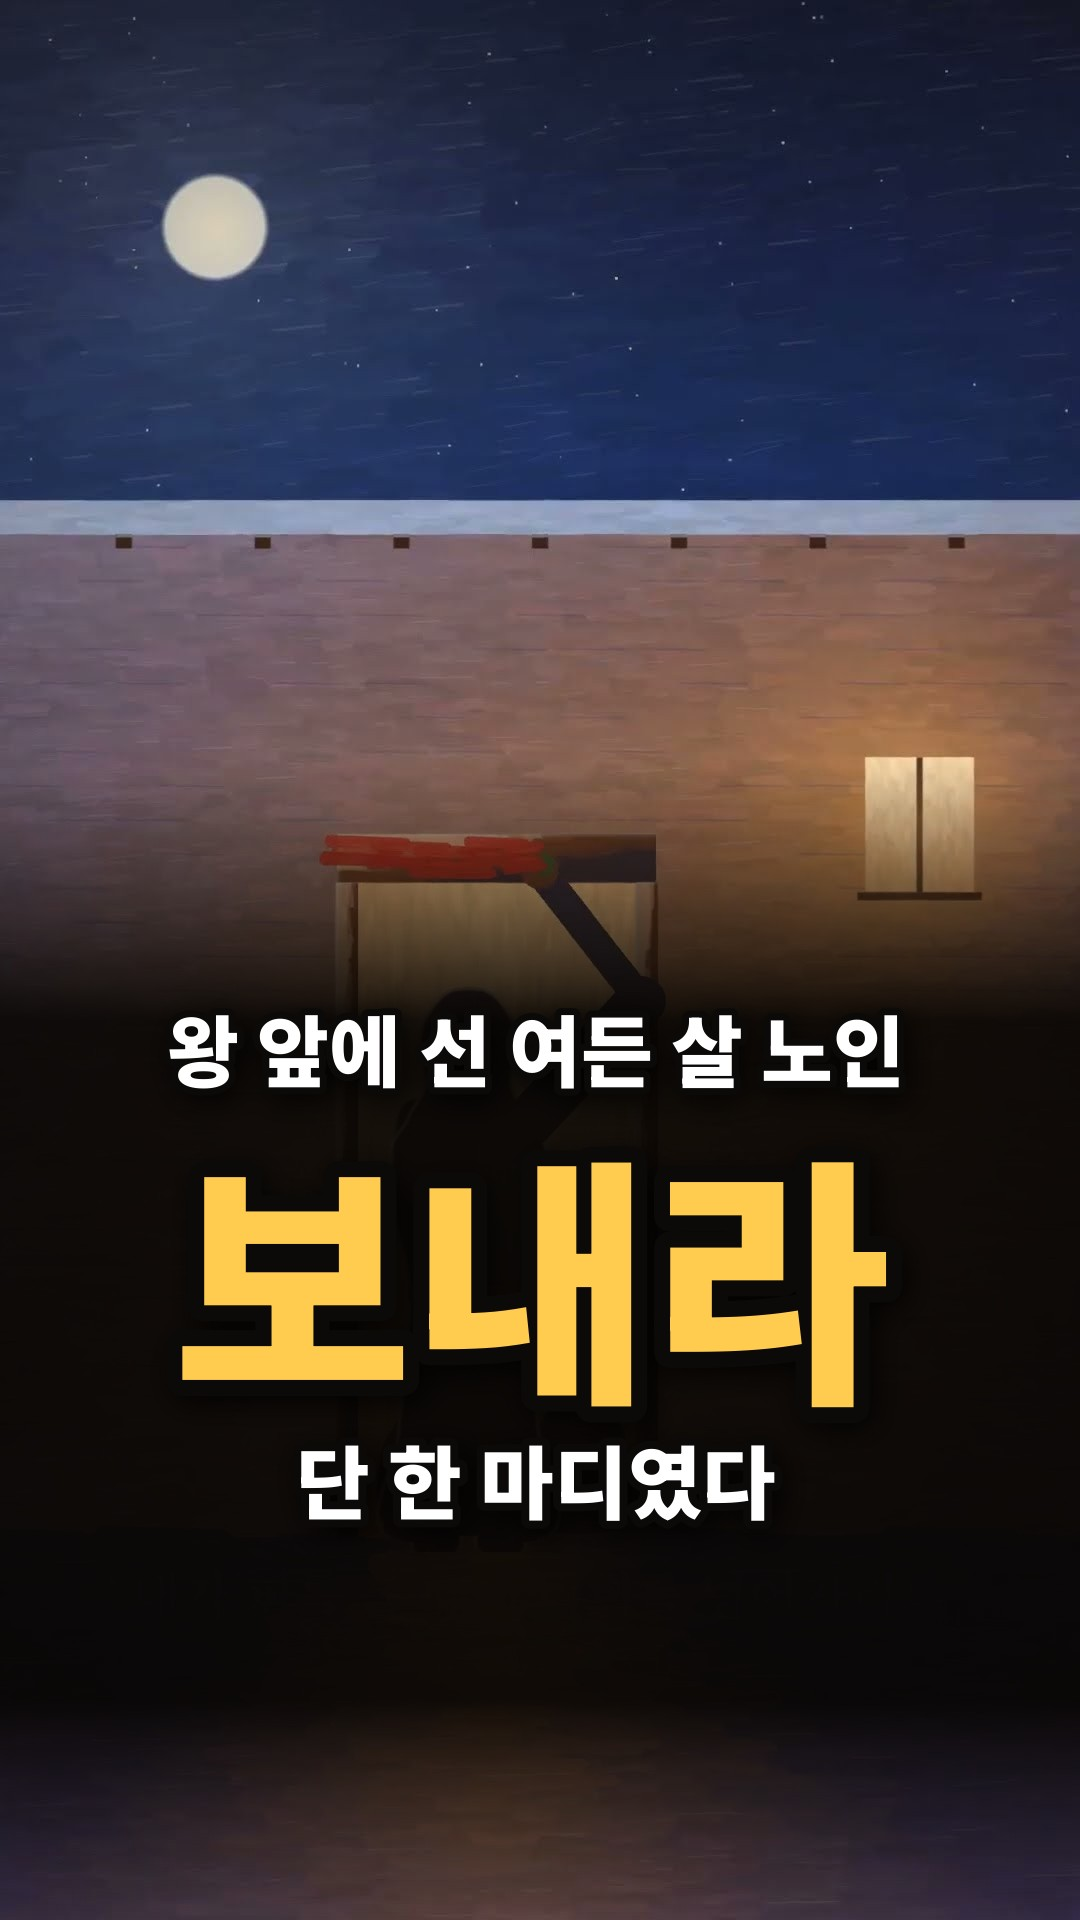
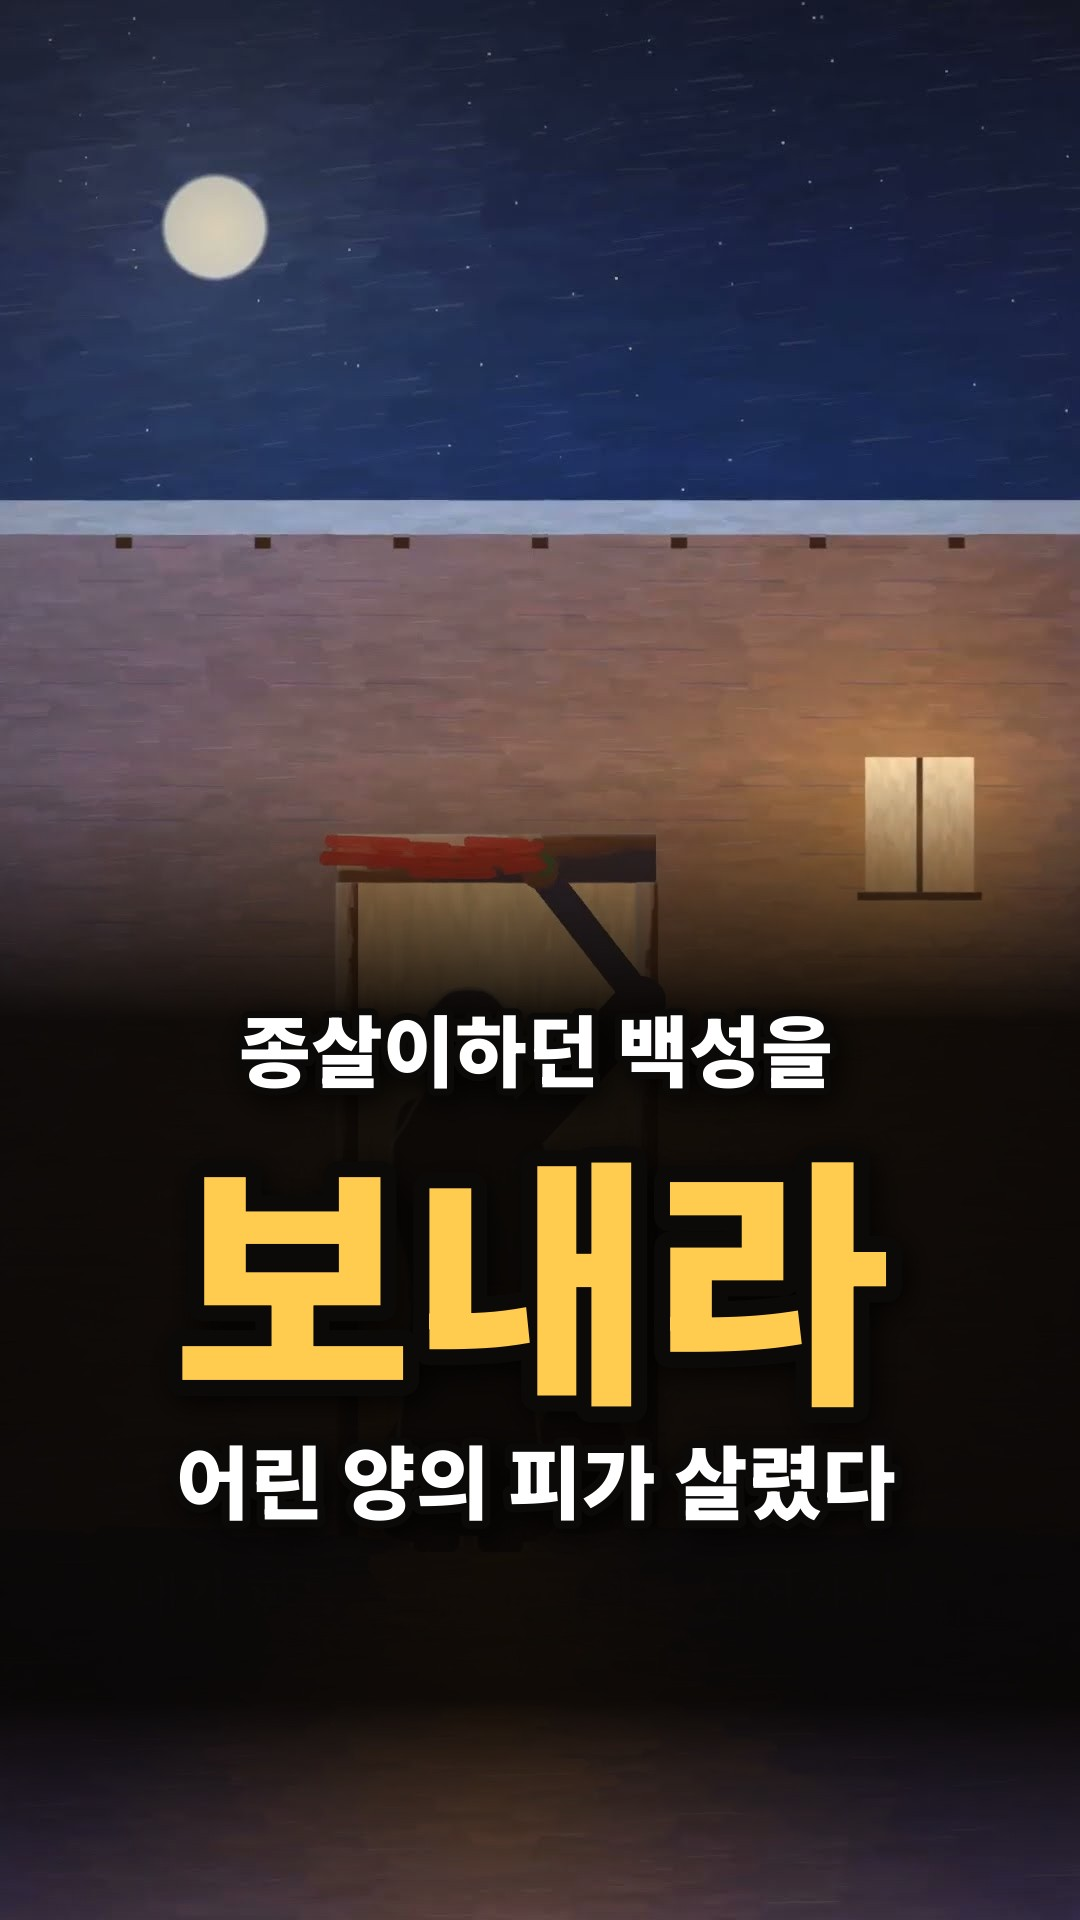
쇼츠 표지: 영상이 답하지 않는 질문 6개 고침(02·03·05·06·07·12) — 모든 표지에 payoff(그 쇼츠 안의 답 문장), 없으면 make.py가 거절
- 아내: "제목을 보고 기대하는 내용이 안 담겨 있다 — 왜 돌아갔는지 영상에 없음"
- 06 "왜 돌아서 갔을까" → "광야에서 보낸 / 40년 / 하나님이 안고 오셨다"(신 1:31), 05 "단 한 마디였다" → "어린 양의 피가 살렸다" 등
- 규칙 shorts-cover-hook에 '표지 질문은 그 쇼츠 안에서 답한다' 추가

Changed region(s): [[0.1528, 0.75, 0.825, 0.8125], [0.1528, 0.5312, 0.8556, 0.5938]]

diff --git a/motion/youtube/thumbs/shorts/make.py b/motion/youtube/thumbs/shorts/make.py
@@ -6,6 +6,8 @@
 # three centred lines sit inside the middle 3:4 (y 240–1680, Instagram's grid crop) — small white line, the big gold word fitted to the
 # width, small white line. Same file = the Instagram Reels cover. Words: a question the viewer already has, or a reversal — never light
 # or joking (관리자: "저건 너무 가벼운"); facts in the words checked against the verse.
+# The Short must answer its own cover (아내 2026-11-17: "제목을 보고 기대하는 내용이 안 담겨 있다 — 왜 돌아갔는지 영상에 없음"):
+# every item carries "payoff" = the line in that Short that pays the cover off; make.py refuses an item without one.
 # Upload: node motion/youtube/thumbs/shorts/apply.mjs <set> [--dry]  (thumbnails.set, 50 units each; YT_* in the environment).
 import os, sys, json, urllib.request
 from PIL import Image, ImageDraw, ImageFont, ImageFilter
@@ -50,6 +52,8 @@ def cover(src, words):
 for name in sys.argv[1:] or [d for d in sorted(os.listdir(HERE)) if os.path.exists(os.path.join(HERE, d, 'hooks.json'))]:
     D = os.path.join(HERE, name); H = json.load(open(os.path.join(D, 'hooks.json'), encoding='utf-8'))['items']
     os.makedirs(os.path.join(D, 'out'), exist_ok=True); ims = []
+    missing = [k for k in sorted(H) if not H[k].get('payoff')]
+    if missing: sys.exit(f'{name}: no payoff for {missing} — every cover needs the line in that Short that answers it (rule shorts-cover-hook)')
     for k in sorted(H):
         im = cover(os.path.join(D, 'src', k + '.jpg'), H[k]['words']); p = os.path.join(D, 'out', k + '.jpg')
         q = 90
